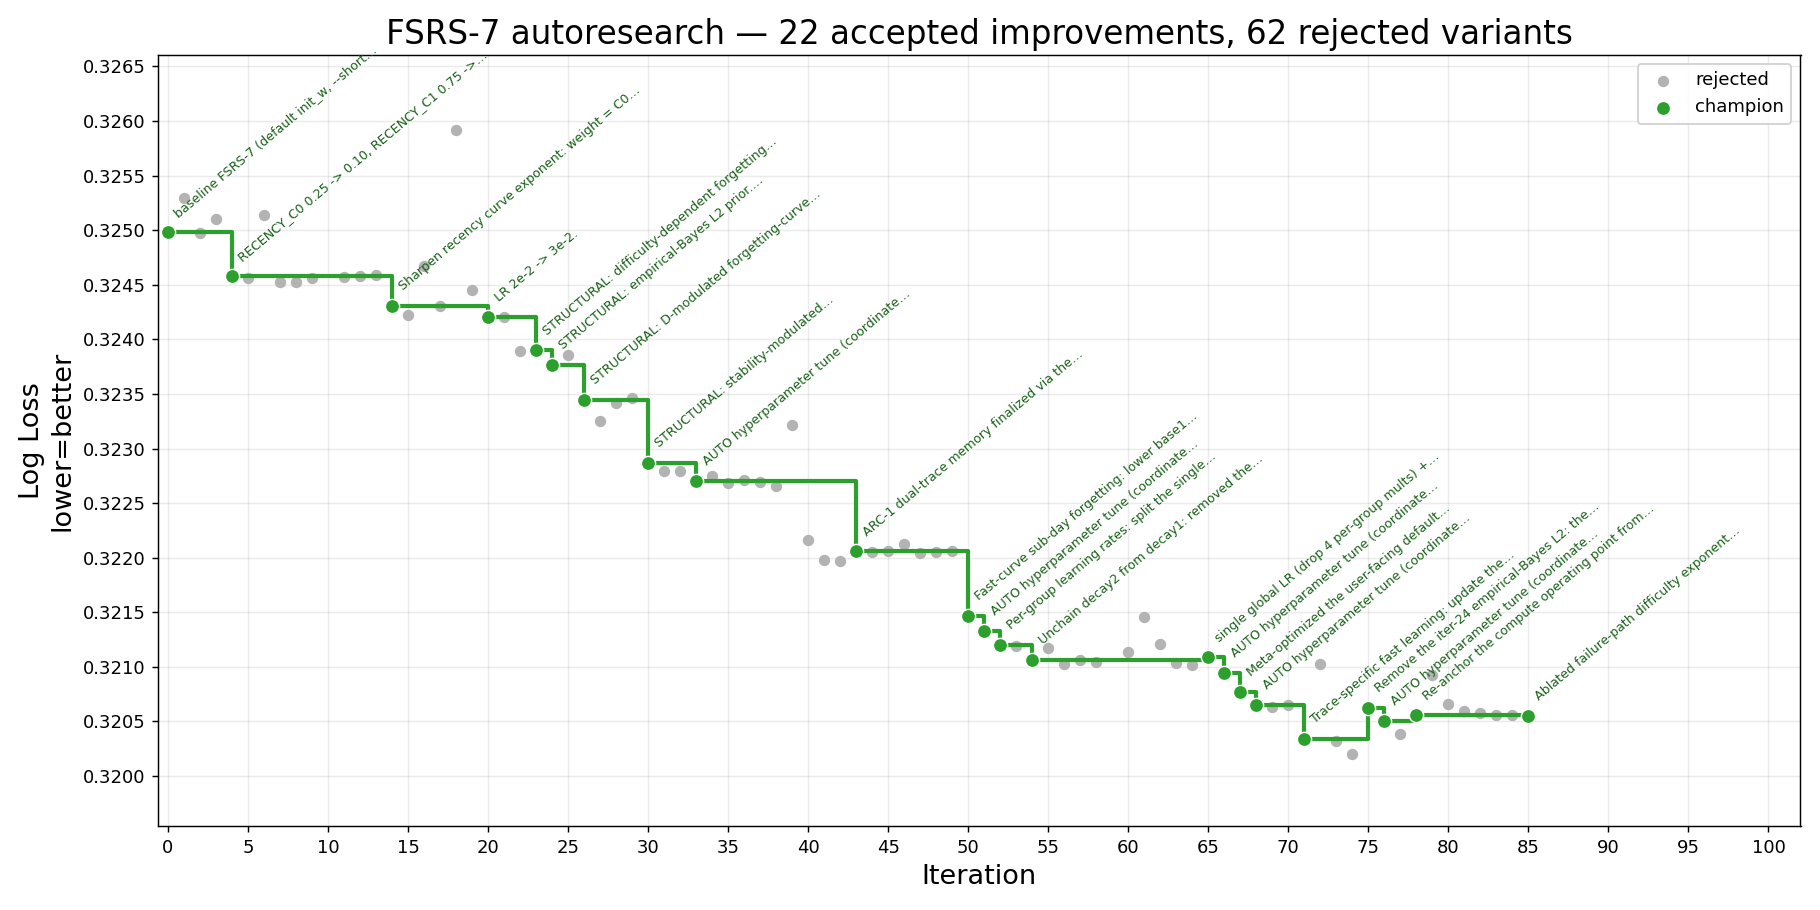
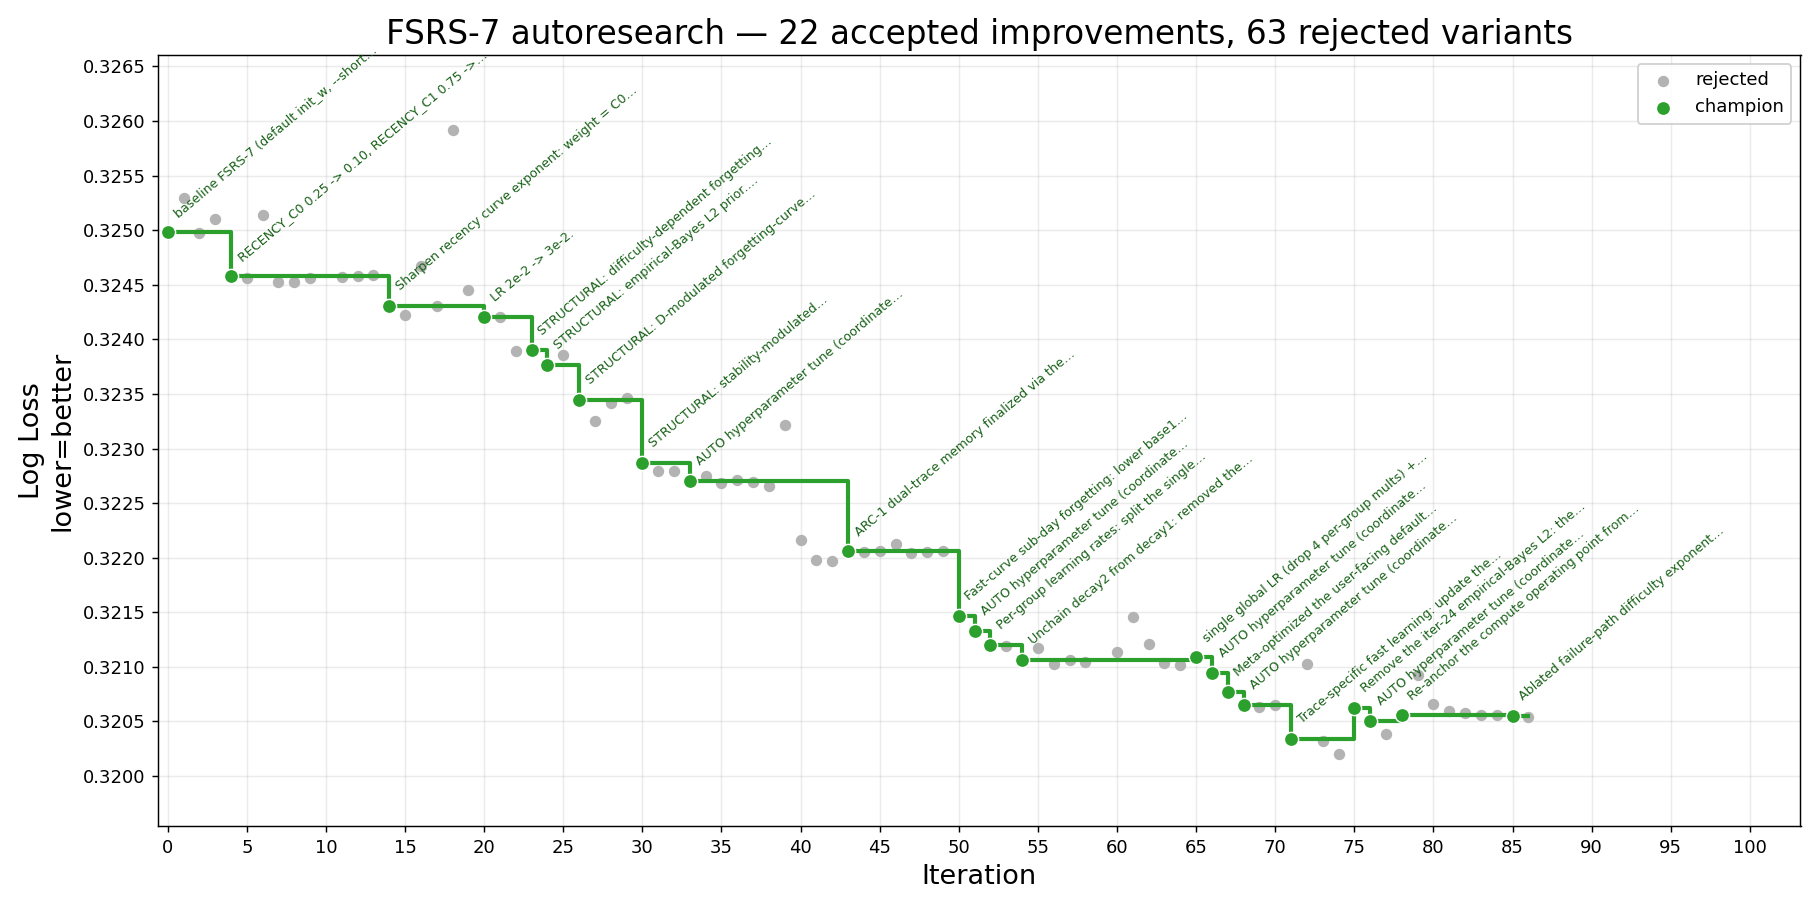
iter 86 rejected: hyperparameter auto-tune (no improvement >= 0.0001)
Automated coordinate-descent pass over LR / Adam betas / L2 strength / recency weighting. Best: BETA2 0.9913->0.9942, LL_by_user 0.32055 -> 0.32054 (+0.000009 < 0.0001 thresh). Reverted to champion.

diff --git a/result/history.md b/result/history.md
@@ -1,6 +1,6 @@
 # FSRS-7 autoresearch — iteration history
 
-_85 record(s). Generated from `history.jsonl` — do not edit by hand._
+_86 record(s). Generated from `history.jsonl` — do not edit by hand._
 
 | # | Time (UTC) | Thresh. | LL before | LL after | Δ LL | Cx before | Cx after | Δ Cx % | Status | Summary |
 |--:|---|---:|---:|---:|---:|---:|---:|---:|---|---|
@@ -89,3 +89,4 @@ _85 record(s). Generated from `history.jsonl` — do not edit by hand._
 | 83 | 2026-06-03T22:01:43 | 0.0001 | 0.32056 | 0.32056 | -0.00001 | 16,827 | 16,827 | +0.00% | rejected | Changed difficulty mean-reversion target from D0(rating=4, easiest) to D0(rating=3, Good) in fsrs7_next_d; 0 params. |
 | 84 | 2026-06-04T00:14:50 | 0.0002 | 0.32056 | 0.32056 | -0.00001 | 16,827 | 16,836 | +0.05% | rejected | Added trainable per-user difficulty mean-reversion target w[36] (init 4.0), replacing hardcoded rating-4 anchor in fsrs7_next_d. |
 | 85 | 2026-06-04T00:31:07 | 0.0000 | 0.32056 | 0.32055 | +0.00001 | 16,827 | 16,804 | -0.14% | accepted | Ablated failure-path difficulty exponent fail_d_exp (w[11], w[20]); post-lapse stability now D-independent. 36->34 params. |
+| 86 | 2026-06-04T01:00:43 | 0.0001 | 0.32055 | 0.32054 | +0.00001 | 16,804 | 16,804 | +0.00% | rejected | AUTO hyperparameter tune (coordinate descent over training hyperparameters (LR/betas/L2/recency C0+EXP)): best candidate BETA2 0.9913->0.9942. |
